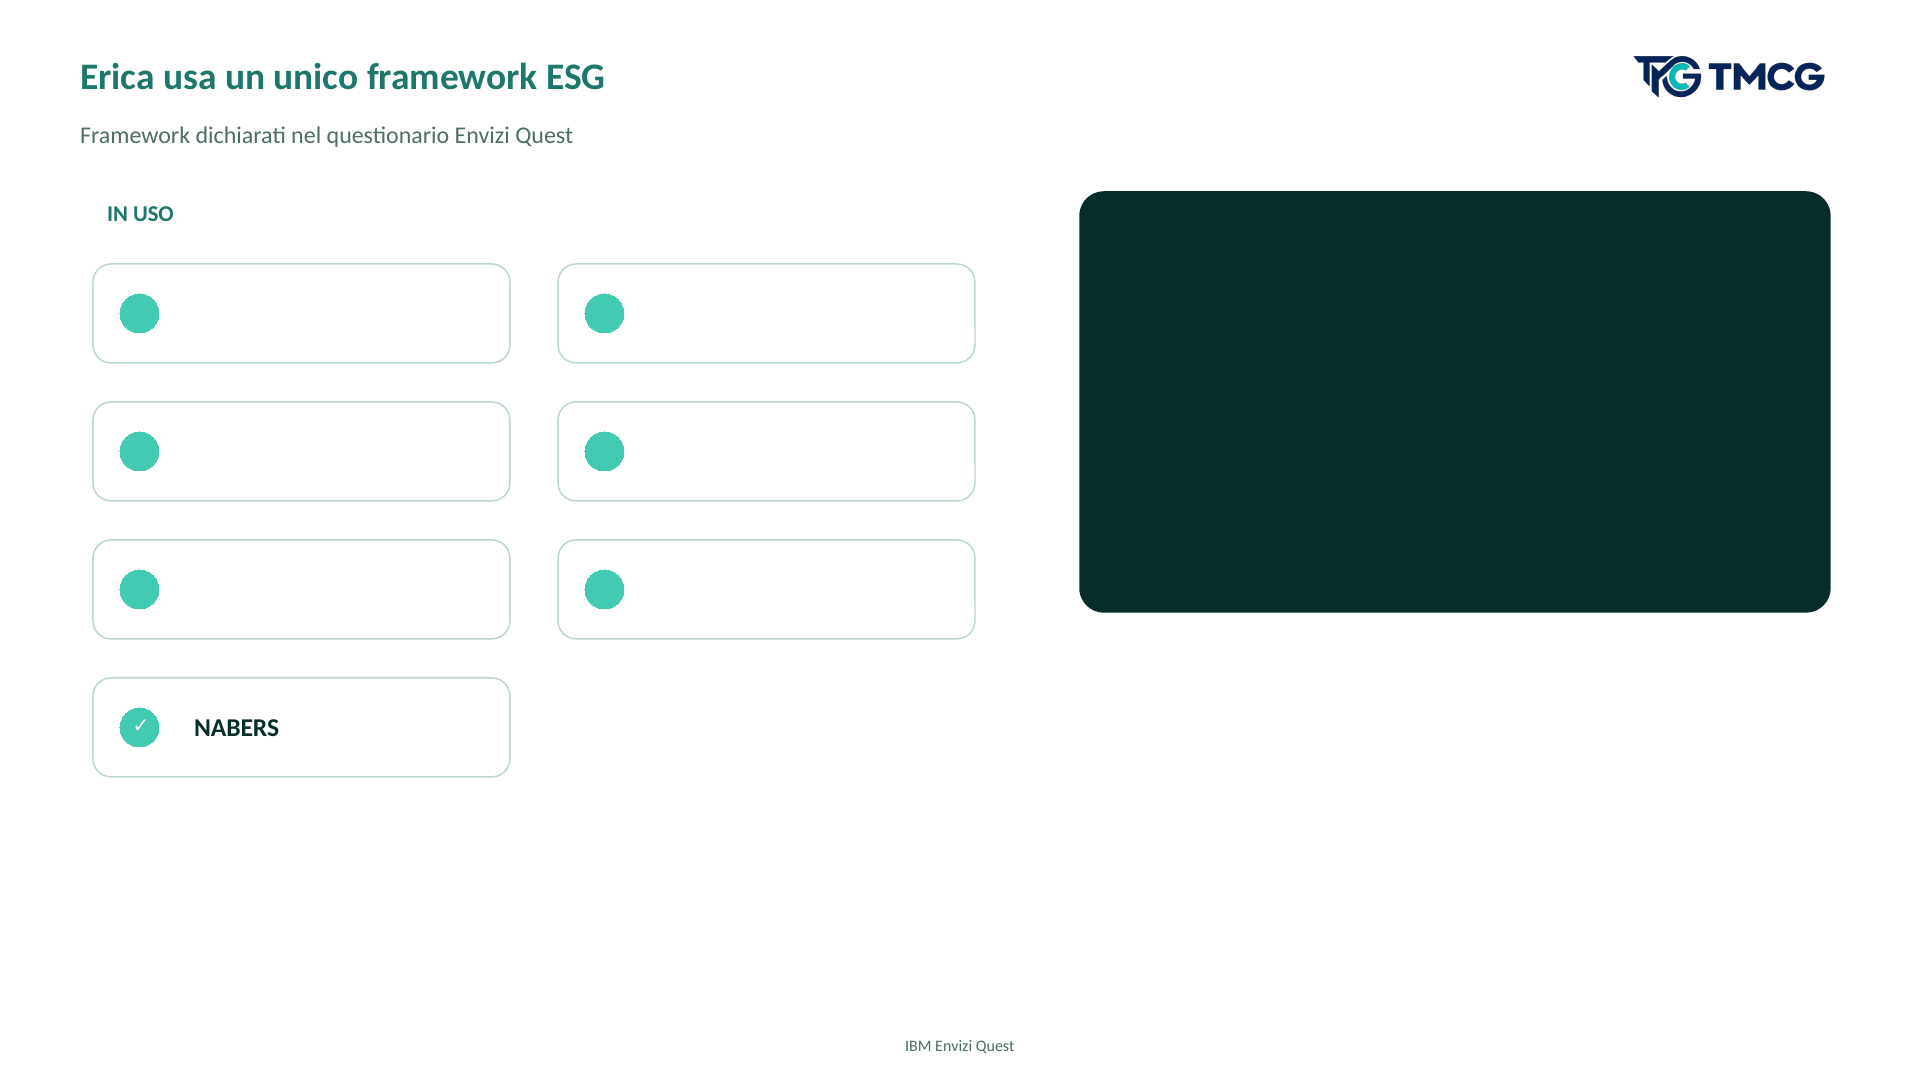
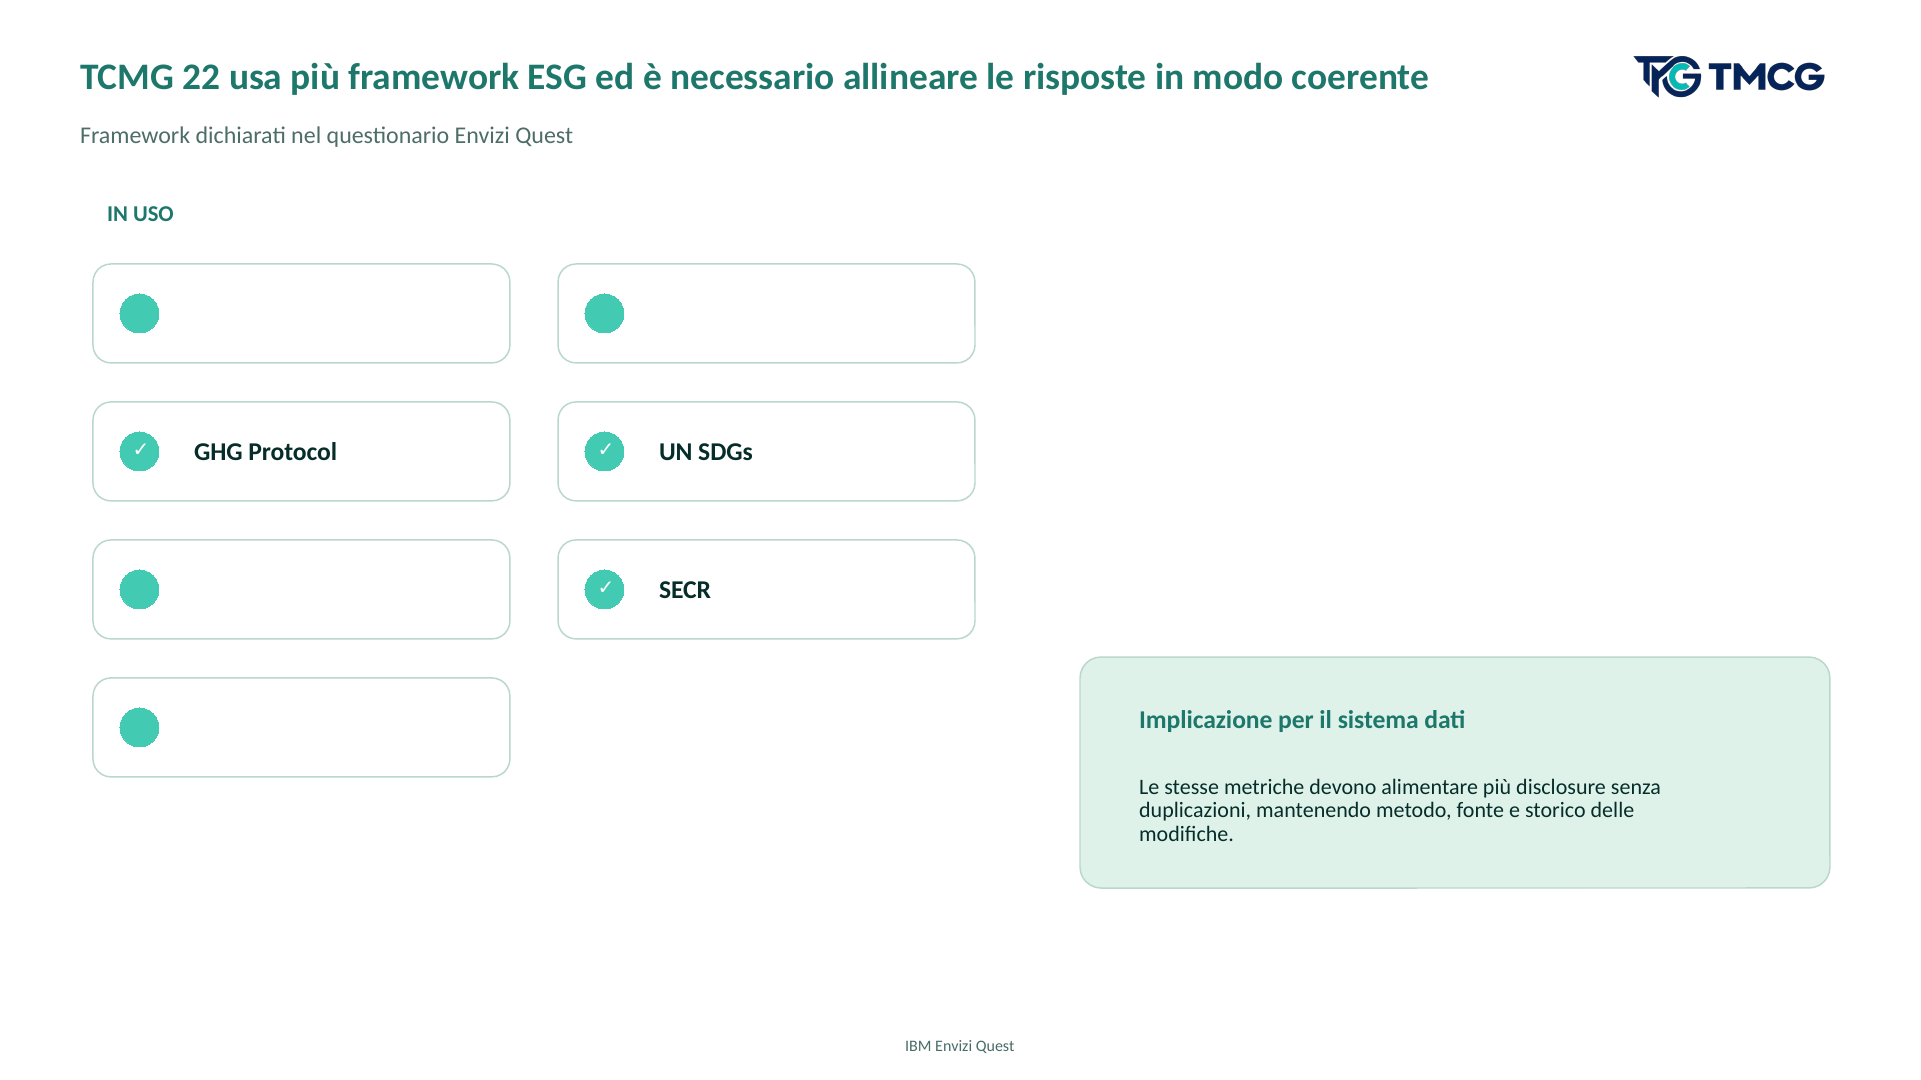
fix: company2 avanti in geoComplexPanel; welcome rimuovi subtitle e wipNote; ilTuoReport rimuovi Rep h1 e missionProgress; report slide4 rimuovi blocco nero (id=34); prod refreshAndView salta fetch API

diff --git a/source/src/App.tsx b/source/src/App.tsx
@@ -614,6 +614,10 @@ export default function Home(){
   if(screen==="reportSlideshowPng"&&profile)return <P10Slideshow language={language} profile={profile} setLanguage={setLanguage} setScreen={setScreen} reset={reset} goBack={goBack} renderTrustBar={renderTrustBar} p10SlideIdx={reportSlideIdx} setP10SlideIdx={setReportSlideIdx} P10_SLIDES={REPORT_SLIDES_BUSTED} backScreen="ilTuoReport"/>;
 
   const refreshAndViewReport=async(lang:"it"|"en")=>{
+    // In produzione (GitHub Pages) non c'è il backend soffice/pdftoppm —
+    // apriamo direttamente lo slideshow con le slide statiche già presenti.
+    const isProd=import.meta.env.PROD;
+    if(isProd){setPngCacheBust(Date.now());setReportSlideIdx(0);return;}
     const buf=await generateTemplatePptxBuffer(buildPptxData(lang==="it"));
     // btoa(String.fromCharCode(...spread)) crasha con file >~1MB — usiamo chunks
     const bytes=new Uint8Array(buf);
@@ -1028,7 +1032,6 @@ export default function Home(){
         <div className="welcomeLeft">
           <p className="eyebrow">IBM ENVIZI · IMPACT QUEST</p>
           <h1 className="welcomeTitle">{isIt?"Benvenuto alla Envizi Quest":"Welcome to Envizi Quest"}</h1>
-          <p className="welcomeSubtitle">{isIt?"Inserisci il tuo nome o selezionane uno esistente per vedere le tue quest salvate.":"Enter your name or pick an existing one to see your saved quests."}</p>
           <div className="welcomeForm">
             {/* Campo nome con suggerimenti utenti */}
             <div className="welcomeField" style={{position:"relative"}}>
@@ -1076,10 +1079,6 @@ export default function Home(){
           <div className="welcomeNote">
             <span className="welcomeNoteIcon">ℹ</span>
             <p>{isIt?"Per recuperare utenti e Quest precedentemente registrati, collegati dal medesimo browser utilizzato in precedenza.":"To retrieve previously registered users and Quests, connect from the same browser used before."}</p>
-          </div>
-          <div className="welcomeWipNote">
-            <span className="welcomeWipIcon">⚠</span>
-            <p>{isIt?`Regola lo schermo in questa schermata: quando vedrai la linea blu in alto e la linea blu in basso avrai la dimensione corretta per usare l'app (risoluzione target: 1080p). ${/Mac|iPhone|iPad/.test(navigator.userAgent)?"Mac: ⌘+ / ⌘−":"Windows: Ctrl+ / Ctrl−"}`:`Adjust the screen zoom on this page: when you see the blue line at the top and the blue line at the bottom, you have the correct size to use the app (target resolution: 1080p). ${/Mac|iPhone|iPad/.test(navigator.userAgent)?"Mac: ⌘+ / ⌘−":"Windows: Ctrl+ / Ctrl−"}`}</p>
           </div>
         </div>
         {/* RIGHT: quest dell'utente corrente */}

diff --git a/source/src/screens/Blank1.tsx b/source/src/screens/Blank1.tsx
@@ -79,13 +79,9 @@ export function IlTuoReport({language,profile,setLanguage,setScreen,reset,render
       <div style={{position:"absolute",top:0,left:0,right:0,height:"4px",background:"#3b82f4",zIndex:100}}/>
       <header className="missionNav">
         <button className="brand brandButton" onClick={reset}><span className="brandMark">e·</span><span>Envizi<br/>Impact Quest</span></button>
-        <div className="missionProgress"><span className="activeDot"/> REP</div>
         <button className="langMini" onClick={()=>setLanguage(language==="it"?"en":"it")}>{language==="it"?"EN":"IT"}</button>
       </header>
       <section style={{display:"flex",flexDirection:"column",alignItems:"center",gap:"12px",padding:"12px 0 20px",width:"100%",flex:1,minHeight:0}}>
-        <h1 style={{margin:"0 0 4px",fontSize:"clamp(28px,3vw,44px)",fontWeight:520,letterSpacing:"-.05em",color:"#b5c9c1",flexShrink:0}}>
-          Rep
-        </h1>
         <div style={{position:"relative",width:"100%",maxWidth:"none",flex:1,minHeight:0,display:"flex",alignItems:"center",justifyContent:"center"}}>
           <img src="./logica-report-finale.png" alt={isIt?"Anteprima report":"Report preview"} style={{width:"100%",height:"100%",objectFit:"contain",borderRadius:"10px",boxShadow:"0 4px 32px rgba(0,0,0,.5)",display:"block"}}/>
         </div>

diff --git a/source/src/screens/CompanyScreens.tsx b/source/src/screens/CompanyScreens.tsx
@@ -581,6 +581,7 @@ export function CompanyScreen({
                   </div>
                 </>
               )}
+              <button className="actionButton" style={{marginTop:"16px",width:"auto",alignSelf:"flex-end"}} onClick={()=>setScreen(nextScreen as any)}>{t.explore}<b>→</b></button>
             </div>
           </div>
           </>
@@ -604,9 +605,6 @@ export function CompanyScreen({
             </span>
           ));
         })()}
-      </div>
-      <div style={{display:"flex",justifyContent:"flex-end",padding:"8px 24px 12px",flexShrink:0}}>
-        <button className="actionButton" style={{marginTop:0,width:"auto"}} onClick={()=>setScreen(nextScreen as any)}>{t.explore}<b>→</b></button>
       </div>
     </section>
     ) : (

diff --git a/source/src/generateTemplatePptx.ts b/source/src/generateTemplatePptx.ts
@@ -292,8 +292,8 @@ function processSlide4Frameworks(
   xml: string,
   frameworkChecks: Record<string, { inUso: boolean; diInteresse: boolean }> | undefined
 ): string {
-  // Always remove the "DI INTERESSE" label + TCFD shapes.
-  xml = removeShapesById(xml, [35, 36, 37]);
+  // Always remove the "DI INTERESSE" label + TCFD shapes + their dark background rect.
+  xml = removeShapesById(xml, [34, 35, 36, 37]);
 
   // Remove the "Implicazione per il sistema dati" block (background rect + label + text)
   // unless the user has 2 or more frameworks in use.
